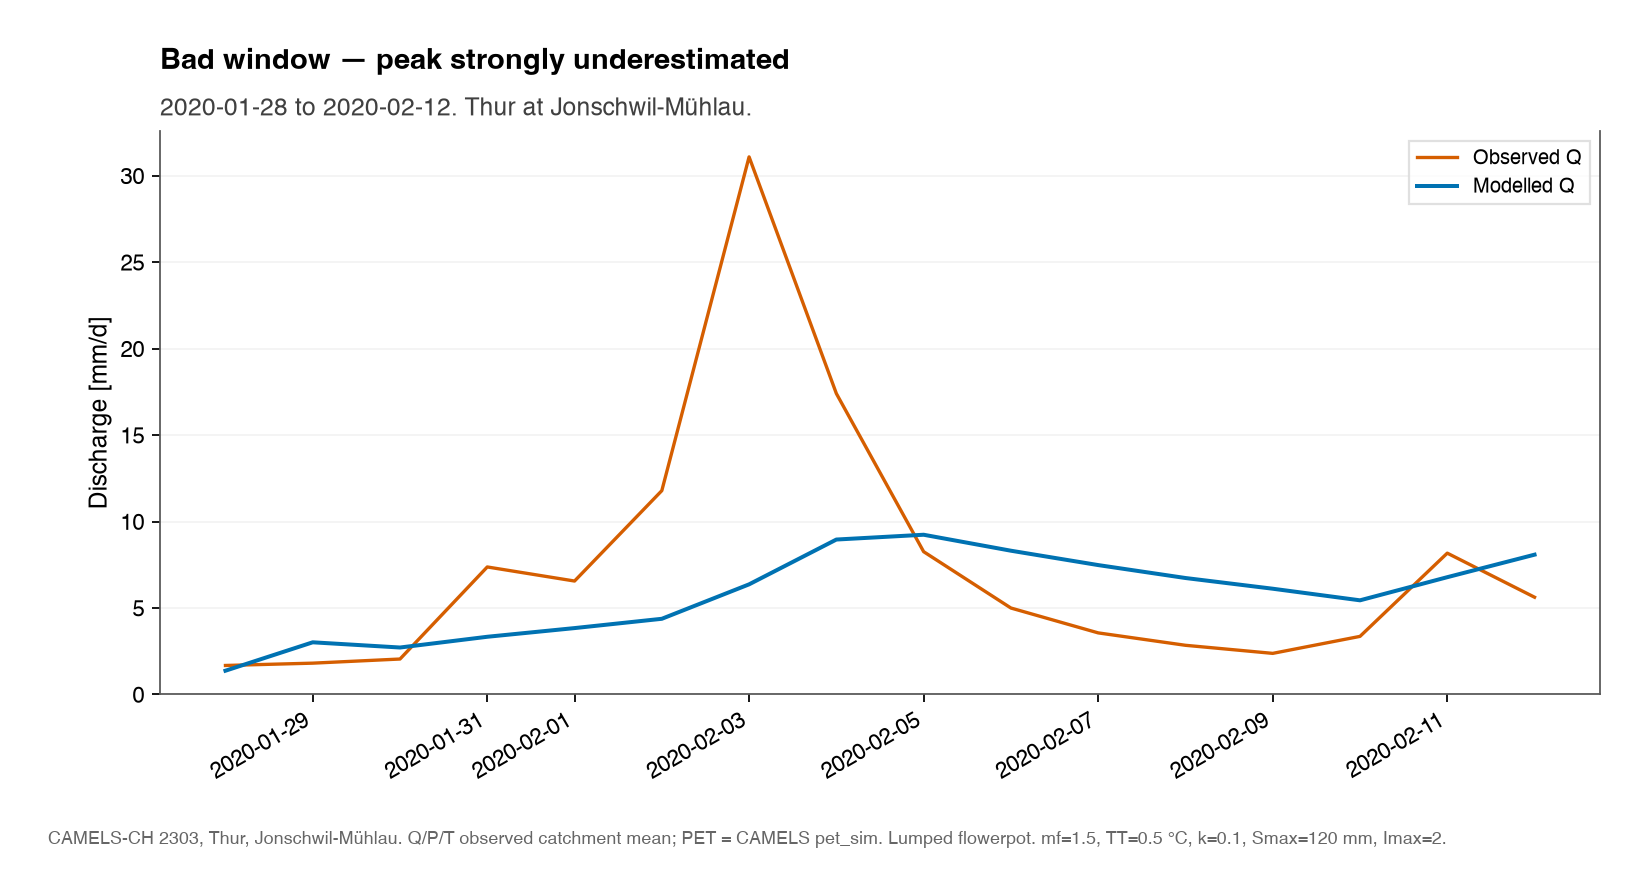
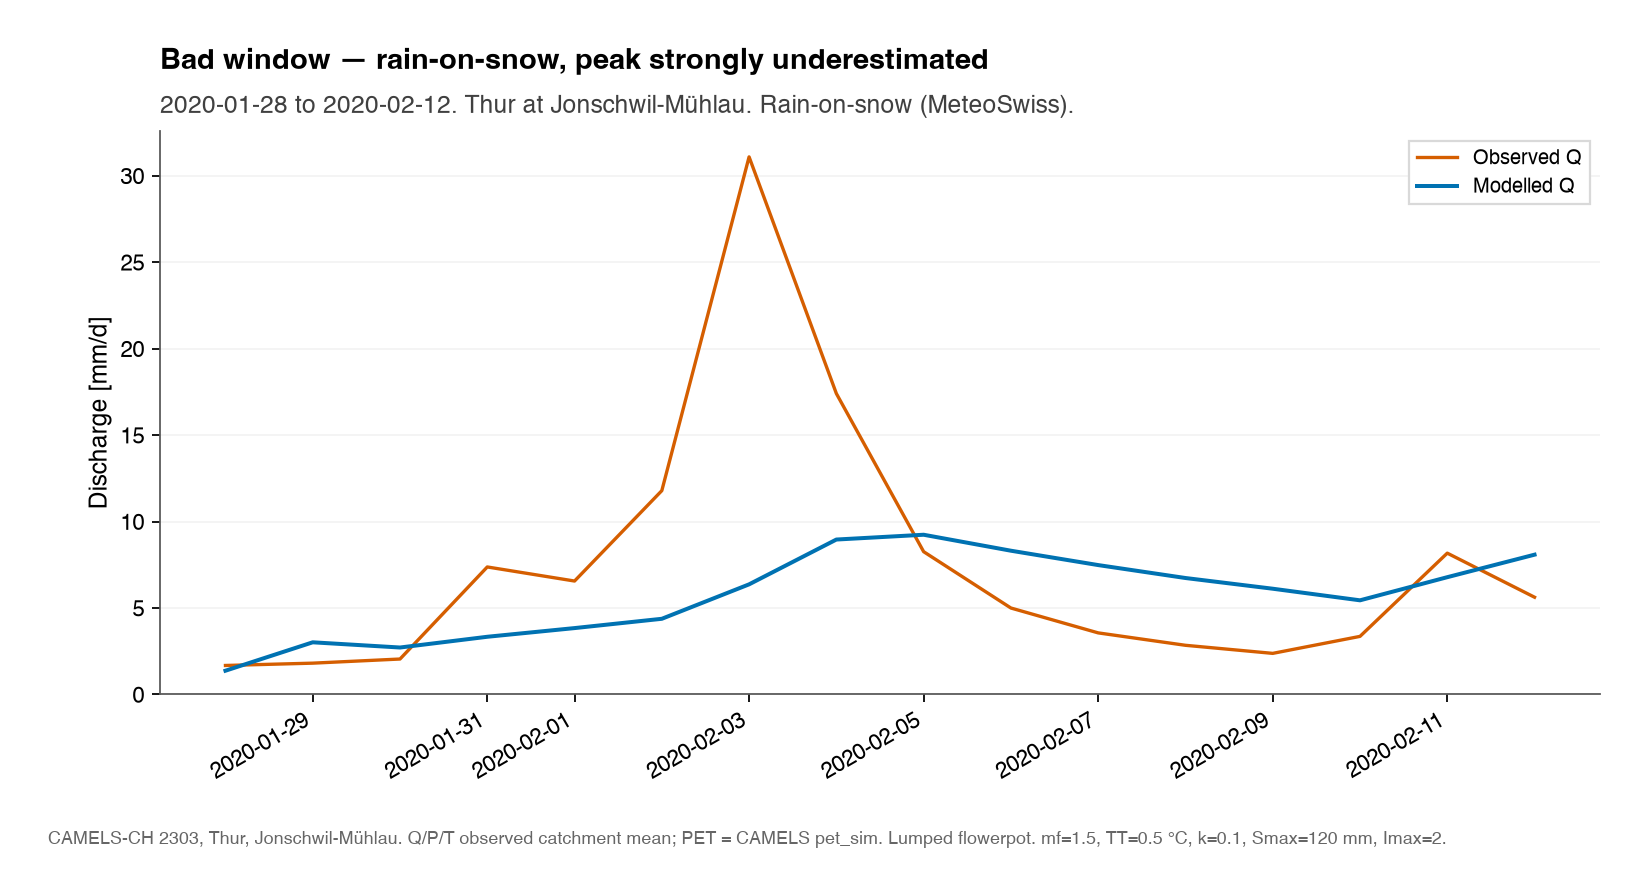
Enhance event plotting and model comparison in Exercise 4
- Updated `notes.md` to clarify the rain-on-snow event and added context for HRU × elevation bands comparison.
- Refactored `plot_events.py` to include new functions for running lumped and HRU band simulations.
- Improved plotting functionality to visualize both lumped and HRU model outputs for better comparison.
- Updated binary figures to reflect the new plotting enhancements for better data visualization.

Changed region(s): [[0.0928, 0.0625, 0.6499, 0.125]]

diff --git a/abgaben/group_ex_04/plot_events.py b/abgaben/group_ex_04/plot_events.py
@@ -1,4 +1,4 @@
-# Exercise 4: one better and one bad modelled-vs-observed window.
+# Exercise 4: better/bad windows — lumped alone, plus same windows with HRU×bands overlay.
 
 from __future__ import annotations
 
@@ -10,11 +10,21 @@ import pandas as pd
 
 HERE = Path(__file__).resolve().parent
 EX03 = HERE.parent / "group_ex_03"
+FUTURE = HERE.parent / "future_ideas"
 REPO = HERE.parents[1]
 sys.path.insert(0, str(EX03))
+sys.path.insert(0, str(FUTURE))
 sys.path.insert(0, str(HERE))
 sys.path.insert(0, str(REPO))
 
+from elevation import DEFAULT_LAPSE, load_bands  # noqa: E402
+from hru_model import (  # noqa: E402
+    DEFAULT_HRU_PARAMS,
+    DEFAULT_MF,
+    DEFAULT_TT,
+    simulate_cover_elevation,
+)
+from landcover import load_hru_weights  # noqa: E402
 from load import find_data_root, load_camels, load_gauge  # noqa: E402
 from model import simulate  # noqa: E402
 from plot_style import (  # noqa: E402
@@ -22,8 +32,11 @@ from plot_style import (  # noqa: E402
     STORAGE_COLOR,
     apply_style,
     figure_note,
+    line_style,
     set_title,
+    style_axes,
 )
+from snow_ros import DEFAULT_K_ROS  # noqa: E402
 
 FIGURES = HERE / "figures"
 GAUGE = 2303
@@ -54,8 +67,44 @@ def read_params() -> dict:
     )
 
 
+def run_lumped(period: pd.DataFrame, params: dict) -> list[float]:
+    result = simulate(
+        period["P"].tolist(),
+        period["T"].tolist(),
+        period["PET"].tolist(),
+        **params,
+    )
+    return result["Q"]
+
+
+def run_hru_bands(period: pd.DataFrame, data_root: Path, gauge: int) -> list[float]:
+    weights = load_hru_weights(
+        data_root / "static_attributes" / "CAMELS_CH_landcover_attributes.csv",
+        gauge,
+    )
+    bands, z_ref = load_bands(
+        data_root / "static_attributes" / "CAMELS_CH_topographic_attributes.csv",
+        gauge,
+    )
+    result = simulate_cover_elevation(
+        period["P"].tolist(),
+        period["T"].tolist(),
+        period["PET"].tolist(),
+        weights,
+        DEFAULT_HRU_PARAMS,
+        bands,
+        z_ref,
+        lapse=DEFAULT_LAPSE,
+        mf=DEFAULT_MF,
+        tt=DEFAULT_TT,
+        k_ros=DEFAULT_K_ROS,
+    )
+    return result["Q"]
+
+
 def plot_window(
     period: pd.DataFrame,
+    lines: list[tuple[str, str, dict]],
     *,
     title: str,
     subtitle: str,
@@ -63,14 +112,12 @@ def plot_window(
     out: Path,
 ) -> None:
     fig, ax = plt.subplots(figsize=(10, 5.5))
-    ax.plot(period["date"], period["Q"], color=OUTFLOW_COLOR, lw=1.5, label="Observed Q")
-    ax.plot(period["date"], period["Q_mod"], color=STORAGE_COLOR, lw=1.8, label="Modelled Q")
+    for column, label, style in lines:
+        ax.plot(period["date"], period[column], label=label, **style)
     ax.set_ylabel("Discharge [mm/d]")
     ax.set_ylim(bottom=0)
     set_title(ax, title, subtitle=subtitle)
-    ax.grid(True, axis="y", alpha=0.35)
-    ax.spines["top"].set_visible(False)
-    ax.legend(loc="upper right")
+    style_axes(ax)
     fig.autofmt_xdate(rotation=30, ha="right")
     figure_note(fig, note)
     fig.subplots_adjust(left=0.08, right=0.98, bottom=0.18, top=0.82)
@@ -97,32 +144,58 @@ def main() -> None:
         f"mf={params['mf']:g}, TT={params['tt']:g} °C, "
         f"k={params['k']:g}, Smax={params['smax']:g} mm, Imax={params['imax']:g}"
     )
-    note = (
+    note_lumped = (
         f"CAMELS-CH {GAUGE}, {river}, {gauge_name}. "
         "Q/P/T observed catchment mean; PET = CAMELS pet_sim. "
         f"Lumped flowerpot. {param_line}."
     )
+    note_compare = (
+        f"CAMELS-CH {GAUGE}, {river}, {gauge_name}. "
+        "Obs + Ex04 lumped + future_ideas HRU cover × elev bands (+ROS). "
+        f"Lumped: {param_line}."
+    )
     titles = {
         "better": "Better window — timing ok, peaks still low",
-        "bad": "Bad window — peak strongly underestimated",
+        "bad": "Bad window — rain-on-snow, peak strongly underestimated",
     }
+    subtitles = {
+        "better": "2010-07-09 to 2010-08-02. Thur at Jonschwil-Mühlau.",
+        "bad": (
+            "2020-01-28 to 2020-02-12. Thur at Jonschwil-Mühlau. "
+            "Rain-on-snow (MeteoSwiss)."
+        ),
+    }
+    hru_style = {**line_style(2), "lw": 1.8}
 
     for start, end, tag in (BETTER, BAD):
         full = camels.loc[(camels["date"] >= WARM_START) & (camels["date"] <= end)].copy()
-        result = simulate(
-            full["P"].tolist(),
-            full["T"].tolist(),
-            full["PET"].tolist(),
-            **params,
-        )
-        full["Q_mod"] = result["Q"]
+        full["Q_lumped"] = run_lumped(full, params)
+        full["Q_hru"] = run_hru_bands(full, root, GAUGE)
         period = full.loc[(full["date"] >= start) & (full["date"] <= end)].copy()
+        subtitle = subtitles[tag]
+
         plot_window(
             period,
+            [
+                ("Q", "Observed Q", {"color": OUTFLOW_COLOR, "lw": 1.5}),
+                ("Q_lumped", "Modelled Q", {"color": STORAGE_COLOR, "lw": 1.8}),
+            ],
             title=titles[tag],
-            subtitle=f"{start} to {end}. Thur at Jonschwil-Mühlau.",
-            note=note,
+            subtitle=subtitle,
+            note=note_lumped,
             out=FIGURES / f"event_{tag}_{start}_{end}.png",
+        )
+        plot_window(
+            period,
+            [
+                ("Q", "Observed Q", {"color": OUTFLOW_COLOR, "lw": 1.5}),
+                ("Q_lumped", "Lumped (Ex04)", {"color": STORAGE_COLOR, "lw": 1.8}),
+                ("Q_hru", "HRU × bands", hru_style),
+            ],
+            title=titles[tag],
+            subtitle=subtitle,
+            note=note_compare,
+            out=FIGURES / f"event_{tag}_hru_bands_{start}_{end}.png",
         )
 
 

diff --git a/abgaben/group_ex_04/notes.md b/abgaben/group_ex_04/notes.md
@@ -43,4 +43,6 @@ One-at-a-time around the optimum (Δ fitness on cal):
 Honest: overall the model is only middling (cal NSE ~0.44). Plots use `plot_style.set_title` / `figure_note`.
 
 - **Better** (`event_better_2010-07-09_…`): summer 2010 pulse — timing and magnitude roughly in the ballpark (still not perfect).  
-- **Bad** (`event_bad_2020-01-28_…`): early Feb 2020 — obs ~31 mm/d, model ~⅓ of that. Likely rain-on-snow / fast runoff the lumped temp-index soil cannot catch.
+- **Bad** (`event_bad_2020-01-28_…`): early Feb 2020 — **rain-on-snow** (confirmed with MeteoSwiss). Obs ~31 mm/d, lumped ~⅓ of that; temp-index soil cannot catch the melt pulse.
+
+Same windows with an extra line (`event_*_hru_bands_*`): Ex04 lumped vs `future_ideas` cover HRUs × elevation bands (+ROS). Not part of the Ex04 lumped deliverable — comparison only.
